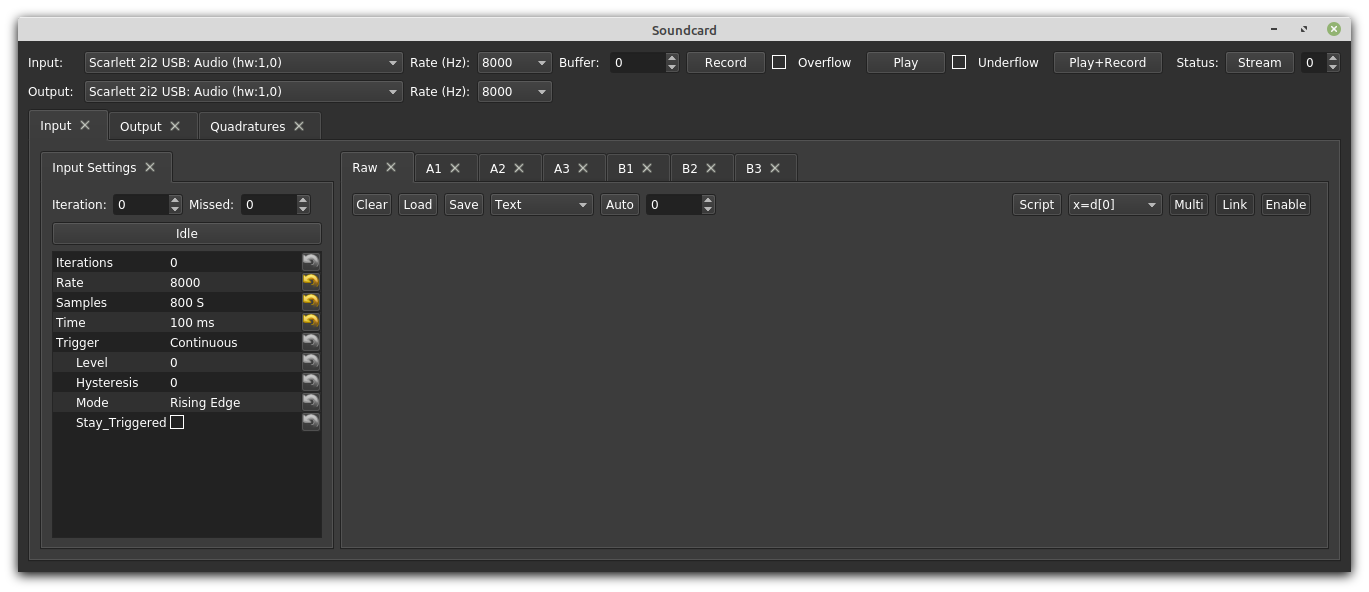
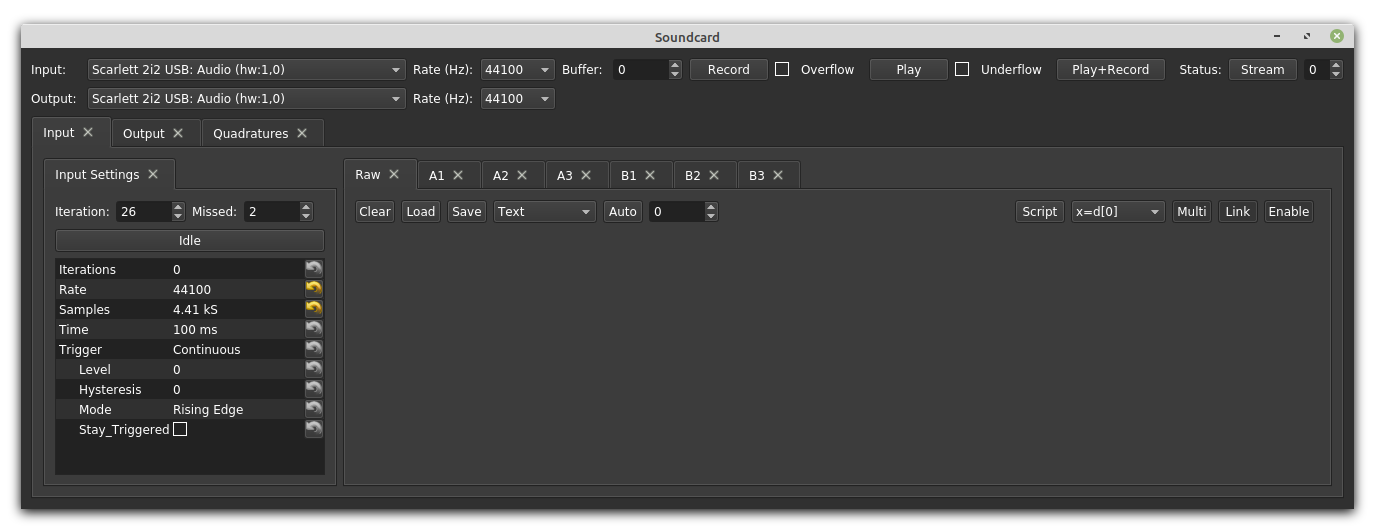
soundcard update

Changed region(s): [[0.0, 0.0, 1.0, 0.9944], [0.1227, 0.7533, 0.1841, 0.7834]]

diff --git a/instruments/soundcard.py b/instruments/soundcard.py
@@ -61,9 +61,12 @@ class soundcard():
         # Combo device selector
         device_names = self.get_device_names()
         self.grid_top.add(_g.Label('Input:'))
-        self.combo_device_in = self.grid_top.add(_g.ComboBox(device_names, autosettings_path=name+'.combo_device_in'))
+        self.combo_device_in = self.grid_top.add(_g.ComboBox(
+            device_names, autosettings_path=name+'.combo_device_in'))
         self.grid_top.add(_g.Label('Rate (Hz):'))
-        self.combo_rate_in = self.grid_top.add(_g.ComboBox(self._rates,  autosettings_path=name+'.combo_rate_in'))
+        self.combo_rate_in = self.grid_top.add(_g.ComboBox(
+            self._rates,  autosettings_path=name+'.combo_rate_in',
+            default_index=4))
 
         # Buffer
         self.grid_top.add(_g.Label('Buffer: '))
@@ -101,7 +104,9 @@ class soundcard():
         self.grid_top.add(_g.Label('Output: '))
         self.combo_device_out = self.grid_top.add(_g.ComboBox(device_names, autosettings_path=name+'.combo_device_out'))
         self.grid_top.add(_g.Label('Rate (Hz):'))
-        self.combo_rate_out = self.grid_top.add(_g.ComboBox(self._rates,  autosettings_path=name+'.combo_rate_out'))
+        self.combo_rate_out = self.grid_top.add(_g.ComboBox(
+            self._rates,  autosettings_path=name+'.combo_rate_out',
+            default_index=4))
 
         # Link the signals
         self.combo_device_out.signal_changed.connect(self._combo_device_changed)
@@ -143,7 +148,7 @@ class soundcard():
         s.add_parameter('Iterations', 0, tip='Number of times to repeat the measurement. Set to 0 for infinite repetitions.')
         s.add_parameter('Rate', self._rates, default_list_index=4, tip='Sampling rate (Hz, synced with Samples and Time).')
         s.add_parameter('Samples', 1000.0, bounds=(1,    None), dec=True, siPrefix=True, suffix='S', tip='How many samples to record (synced with Rate and Time).')
-        s.add_parameter('Time',       0.0, bounds=(1e-9, None), dec=True, siPrefix=True, suffix='s', tip='Duration of recording (synced with Rate and Samples).')
+        s.add_parameter('Time',       0.1, bounds=(1e-9, None), dec=True, siPrefix=True, suffix='s', tip='Duration of recording (synced with Rate and Samples).')
         s.add_parameter('Trigger', ['Continuous', 'Left', 'Right'], tip='Trigger Mode')
         s.add_parameter('Trigger/Level',      0.0,  step=0.01, bounds=(-1,1), tip='Trigger level')
         s.add_parameter('Trigger/Hysteresis', 0.0, step=0.01, bounds=(0,2), tip='How far on the other side of the trigger the signal must go before retriggering is allowed.')
@@ -992,7 +997,7 @@ class soundcard():
         
 
 if __name__ == '__main__':
-    #_g.clear_egg_settings()
+    _g.clear_egg_settings()
     import sys
     def my_hook(*a):
         print('PANTS', a)
